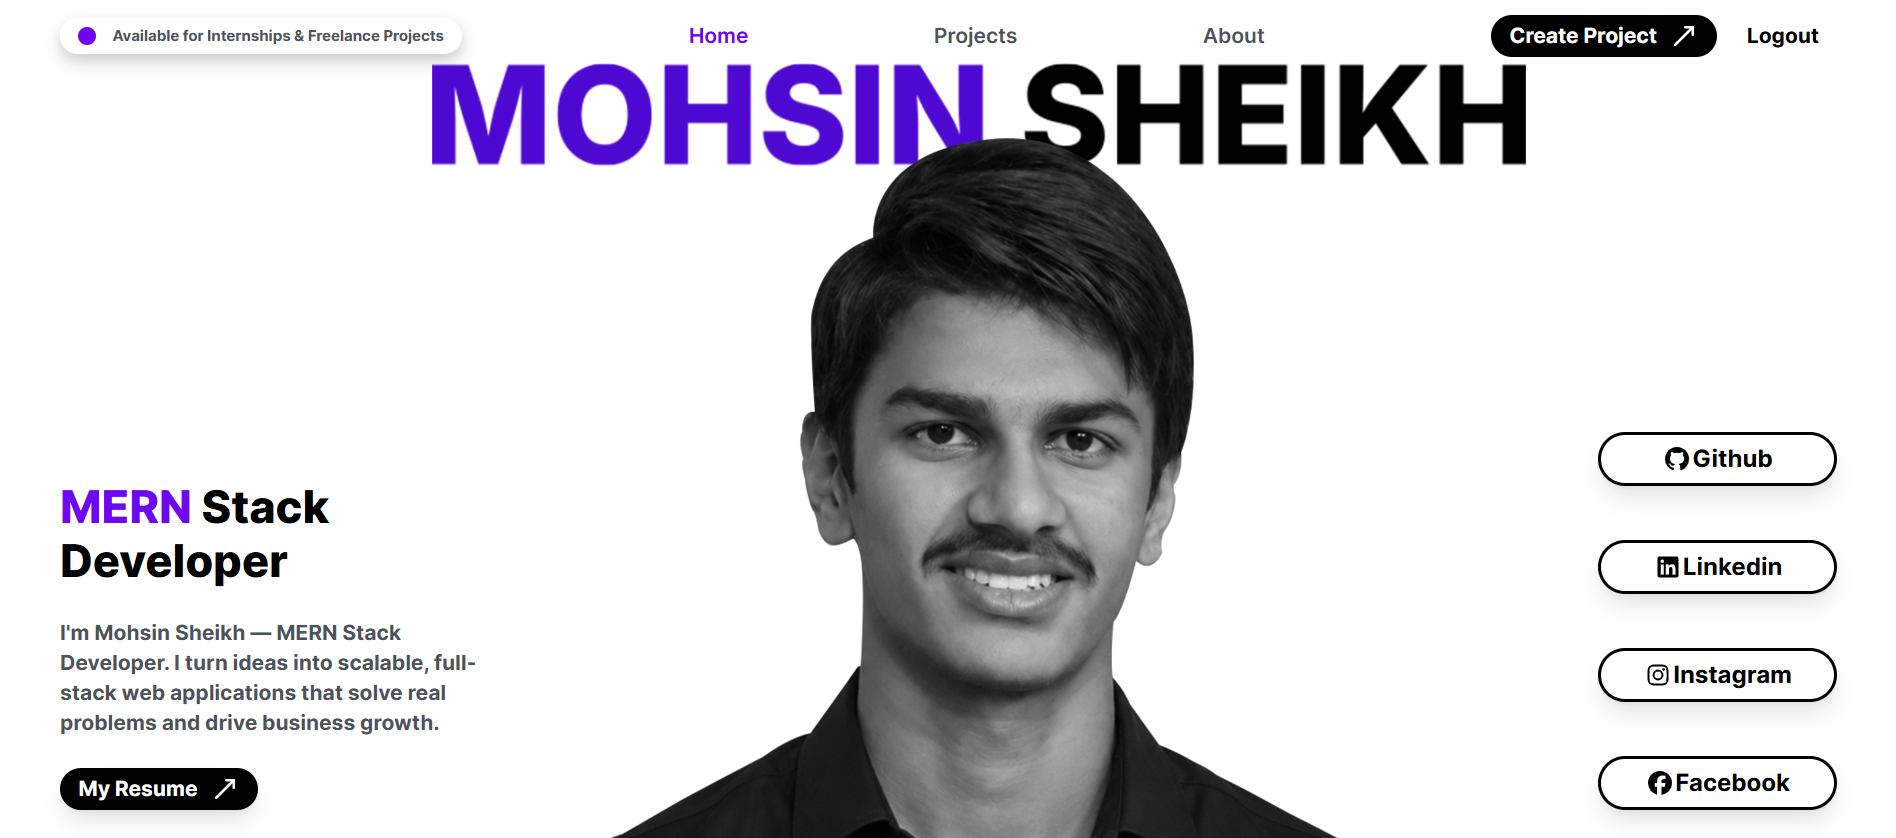
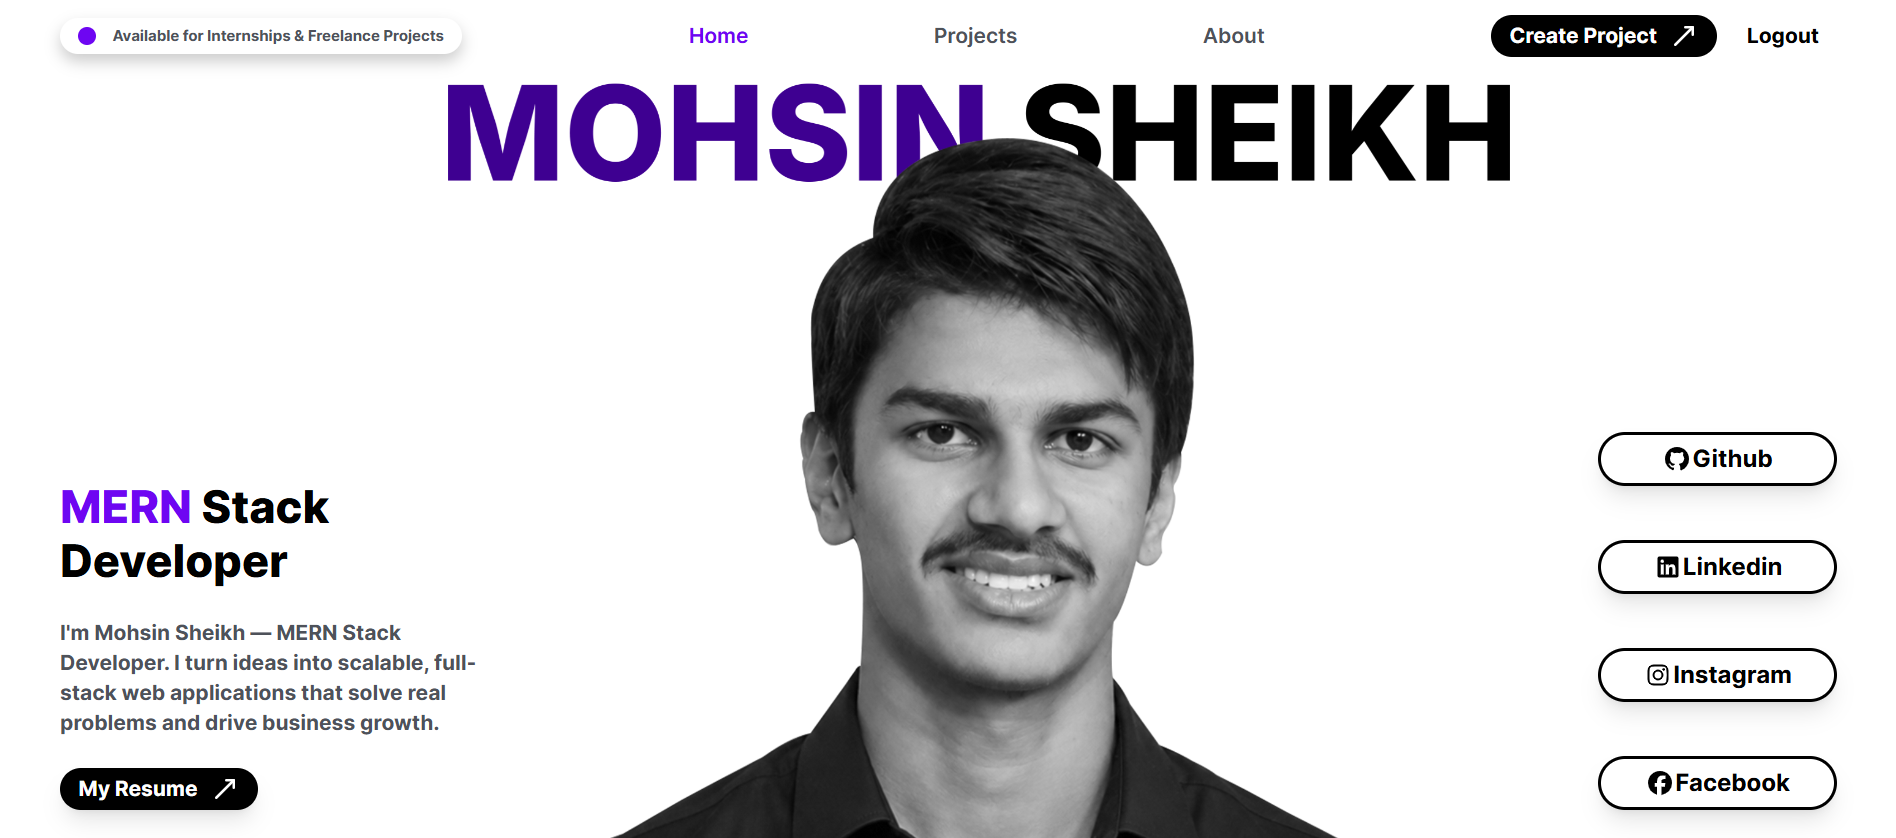
Update code!

diff --git a/Frontend/src/components/Header.tsx b/Frontend/src/components/Header.tsx
@@ -113,7 +113,7 @@ const Header = () => {
   return (
     <div>
       <div className="h-12  relative w-full flex items-center justify-between px-5 min-[800px]:px-10">
-        <div className="bg-white flex hover:scale-110 transition-all duration-300 ease-in-out justify-between items-center px-3 shadow-[0px_5px_10px_0px_rgba(0,0,0,0.2)] w-67 rounded-full h-[50%]">
+        <div className="bg-white flex hover:scale-110 transition-all duration-300 ease-in-out justify-between items-center px-3 shadow-[0px_0px_10px_0px_rgba(0,0,0,0.2)] w-67 rounded-full h-[50%]">
           <div className="h-3 w-3 rounded-full bg-[#6E06F2]"></div>
           <p className="text-[10px] font-bold text-[#4e525a]">
             Available for Internships & Freelance Projects
@@ -151,19 +151,19 @@ const Header = () => {
           <div className="flex">
             <Link to="/about">
               <div className="h-8 hidden md:flex w-30">
-                <button className="text-sm flex bg-black text-white font-bold justify-center items-center gap-2 hover:scale-110 transition-all duration-300 ease-in-out px-3 py-1 rounded-full">
+                <button className="text-sm cursor-pointer flex bg-black text-white font-bold justify-center items-center gap-2 hover:scale-110 transition-all duration-300 ease-in-out px-3 py-1 rounded-full">
                   Let's Talk <MoveUpRight size={20} />
                 </button>
               </div>
             </Link>
             <Link to="/login">
-              <button className="hidden md:flex text-sm font-bold px-3 py-1 rounded-full cursor-pointer transition-all duration-300">
+              <button className="hidden   md:flex text-sm font-bold px-3 py-1 rounded-full cursor-pointer transition-all duration-300">
                 Login
               </button>
             </Link>
             <button
               onClick={handleLogout}
-              className="hidden md:flex text-sm font-bold px-3 py-1 rounded-full cursor-pointer transition-all duration-300"
+              className="hidden md:flex  text-sm font-bold px-3 py-1 rounded-full cursor-pointer transition-all duration-300"
             >
               Logout
             </button>
@@ -172,13 +172,13 @@ const Header = () => {
           <div className="hidden md:flex items-center  gap-2">
             {role === "User" ? (
               <Link to="/about">
-                <button className="text-sm flex bg-black text-white font-bold justify-center items-center gap-2 hover:scale-110 transition-all duration-300 ease-in-out px-3 py-1 rounded-full">
+                <button className="text-sm cursor-pointer flex bg-black text-white font-bold justify-center items-center gap-2 hover:scale-110 transition-all duration-300 ease-in-out px-3 py-1 rounded-full">
                   Let's Talk <MoveUpRight size={20} />
                 </button>
               </Link>
             ) : (
               <Link to="/create-project">
-                <button className="text-sm flex bg-black text-white truncate font-bold justify-center items-center gap-2 hover:scale-110 transition-all duration-300 ease-in-out px-3 py-1 rounded-full">
+                <button className="text-sm cursor-pointer flex bg-black text-white truncate font-bold justify-center items-center gap-2 hover:scale-110 transition-all duration-300 ease-in-out px-3 py-1 rounded-full">
                   Create Project <MoveUpRight size={20} />
                 </button>
               </Link>
@@ -210,7 +210,7 @@ const Header = () => {
         </div>
       </div>
       <div
-        className={`absolute md:hidden h-38 w-full transition-all z-2 duration-500 ease-in-out ${
+        className={`absolute top-11 md:hidden h-38 w-full transition-all z-2 duration-500 ease-in-out ${
           isOpen
             ? "opacity-100 translate-y-0 pointer-events-auto"
             : "opacity-0 -translate-y-2 pointer-events-none"

diff --git a/Frontend/src/components/home/Hero.tsx b/Frontend/src/components/home/Hero.tsx
@@ -49,14 +49,14 @@ const Hero = () => {
         </a>
       </div>
       <div className="relative w-90 sm:w-140 lg:w-500 lg:pr-15 md:w-180 flex justify-center">
-        <img className="absolute md:-left-10 w-400 left-0 animate" src={MyName} alt="" />
+        <img className="absolute md:-left-10 top-5 w-400 left-0 animate" src={MyName} alt="" />
         <img
           className="w-50 sm:w-70 md:w-100 lg:w-128  relative  z-1 object-contain"
           src={MyImg}
           alt=""
         />
       </div>
-      <div className=" hidden flex-col gap-9 lg:flex hidden gap-3 flex-col md:pr-5 md:pb-5">
+      <div className=" hidden flex-col gap-9 lg:flex  md:pr-5 md:pb-5">
        {links.map((link, index) => {
         return <a key={index}  href={link.link}>
           <button className=" cursor-pointer hover:bg-[#6E06F2] font-bold hover:text-white transition-all duration-300 ease-in-out hover:border-transparent border-2 flex justify-center items-center w-full px-7 shadow-lg py-1 rounded-full " key={index}>
